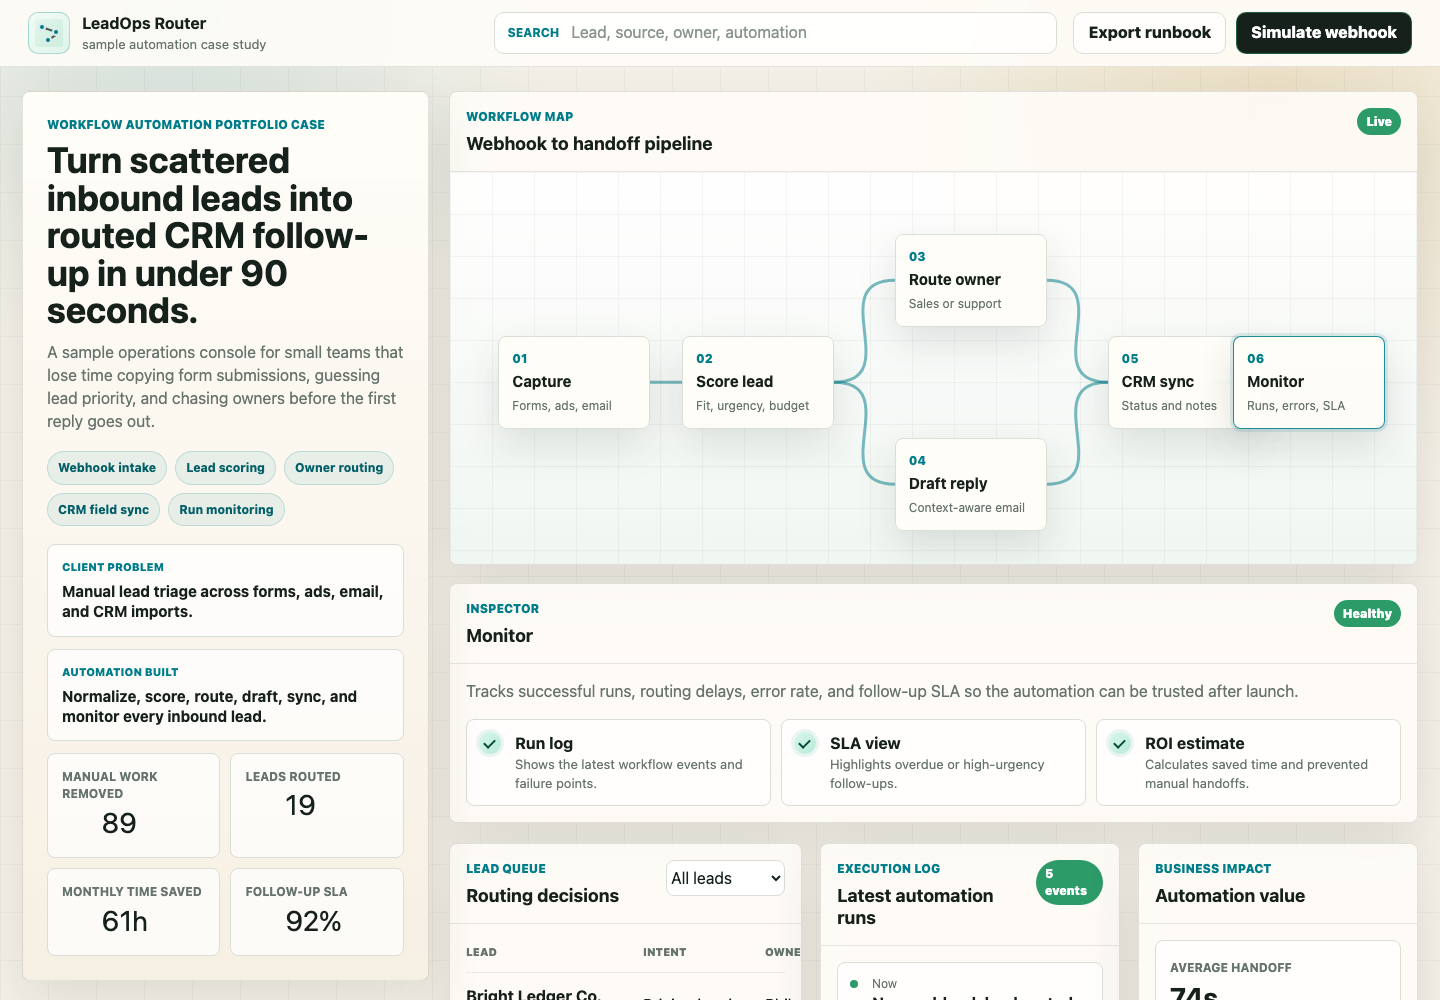
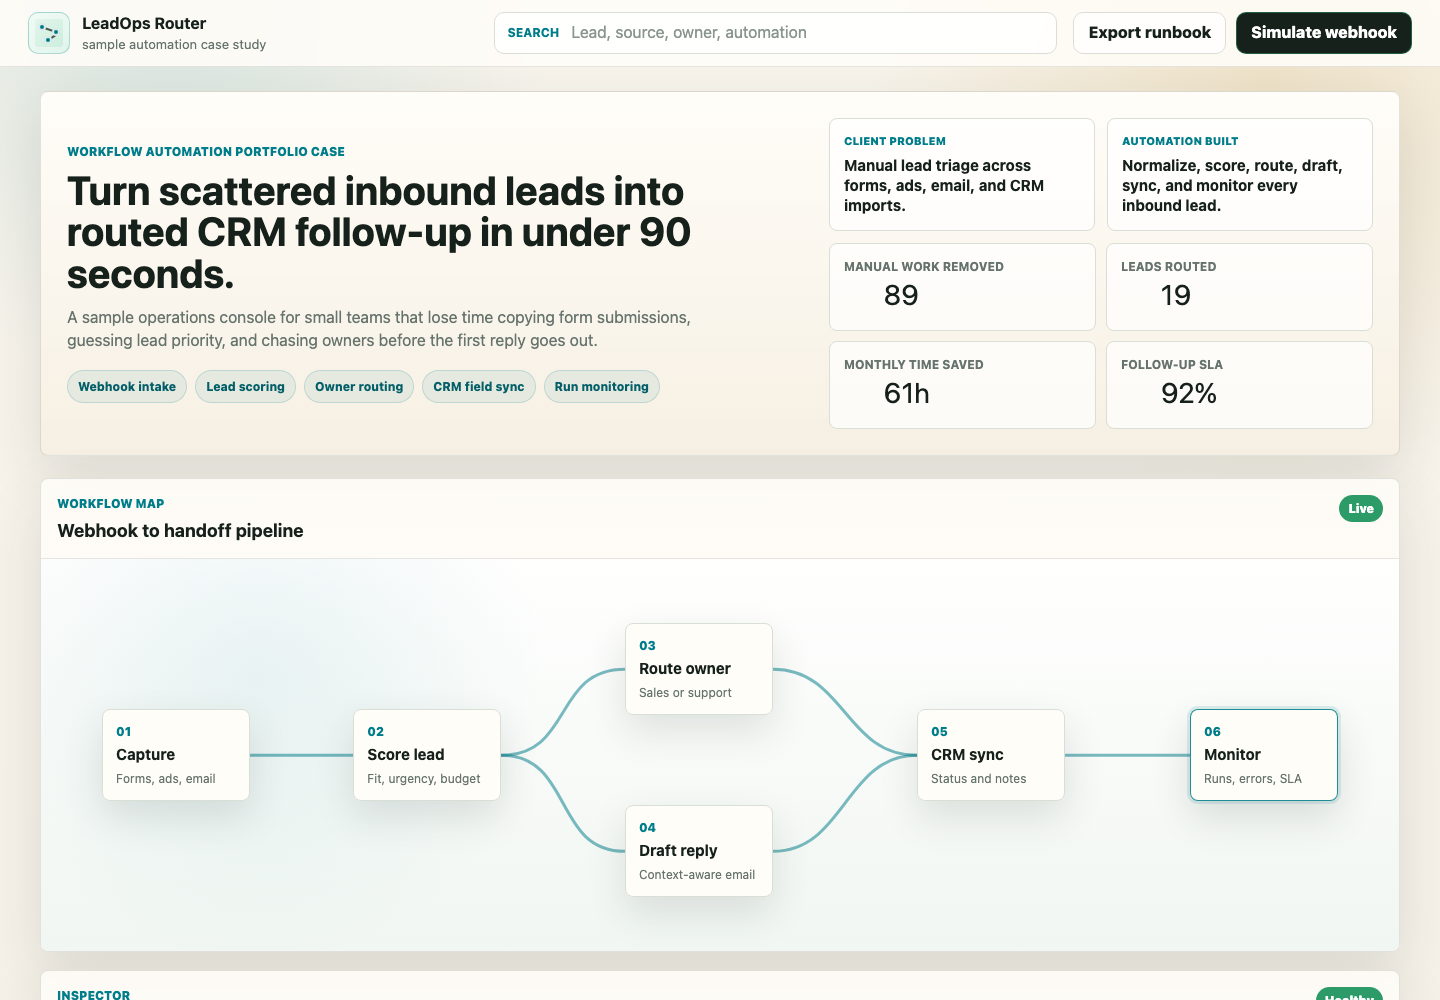
Restore breathing room in the automation portfolio layout
The browser review showed that the light redesign still behaved like a cramped two-column dashboard: the sticky mission rail narrowed the workflow canvas, and CRM/Monitor nodes could visually collide at narrower desktop widths. Direct Safari review then exposed bottom-section proof-card wrapping, proof-card edge mismatch, and operations-card edge mismatch defects that screenshot smoke tests had missed. This change makes the case brief a full-width top section, gives the workflow map its own wide row, removes the busy page grid, fixes proof-description grid placement, and stretches same-row operations and proof cards to matching heights.

Constraint: Upwork portfolio screenshots need to read clearly without relying on horizontal space hidden by a sticky side panel
Rejected: Keep the side rail and shrink node labels | it preserves the cramped structure that caused the visual failure
Rejected: Rely only on automated first-viewport screenshots | it missed bottom-section wrapping and same-row card edge defects
Confidence: high
Scope-risk: narrow
Directive: For future visual edits, verify desktop, narrow desktop, scrolled interaction, bottom content, every same-row card edge group, and mobile screenshots before claiming quality
[…]

diff --git a/styles.css b/styles.css
@@ -25,12 +25,10 @@ body {
   margin: 0;
   color: var(--ink);
   background:
-    linear-gradient(90deg, rgba(23, 33, 28, 0.035) 1px, transparent 1px),
-    linear-gradient(rgba(23, 33, 28, 0.035) 1px, transparent 1px),
     radial-gradient(circle at 12% 0%, rgba(0, 125, 138, 0.13), transparent 24rem),
     radial-gradient(circle at 88% 4%, rgba(194, 145, 38, 0.18), transparent 25rem),
-    var(--bg);
-  background-size: 48px 48px, 48px 48px, auto, auto, auto;
+    linear-gradient(180deg, #f8f4ec 0%, var(--bg) 46%, #eee6d8 100%);
+  background-size: auto;
   font-family: Inter, ui-sans-serif, system-ui, -apple-system, BlinkMacSystemFont, "Segoe UI", sans-serif;
   line-height: 1.45;
 }
@@ -197,14 +195,15 @@ button {
 
 .workspace {
   display: grid;
-  grid-template-columns: minmax(320px, 0.42fr) minmax(0, 1fr);
+  grid-template-columns: 1fr;
   grid-template-areas:
-    "mission console"
-    "mission ops"
-    "proof proof";
-  gap: 20px;
+    "mission"
+    "console"
+    "ops"
+    "proof";
+  gap: 22px;
   align-items: start;
-  width: min(1420px, calc(100% - 44px));
+  width: min(1360px, calc(100% - 48px));
   margin: 0 auto;
   padding: 24px 0 38px;
 }
@@ -220,14 +219,18 @@ button {
 .mission-panel {
   grid-area: mission;
   display: grid;
-  gap: 18px;
-  align-items: start;
-  padding: 24px;
+  grid-template-columns: minmax(0, 1.15fr) minmax(430px, 0.85fr);
+  gap: 26px;
+  align-items: stretch;
+  padding: 26px;
   background:
     linear-gradient(180deg, rgba(255, 253, 248, 0.94), rgba(246, 239, 226, 0.96)),
     var(--paper);
-  position: sticky;
-  top: 84px;
+}
+
+.mission-story {
+  align-self: center;
+  max-width: 760px;
 }
 
 .kicker {
@@ -248,9 +251,9 @@ dd {
 }
 
 h1 {
-  max-width: 620px;
+  max-width: 760px;
   margin-bottom: 12px;
-  font-size: 36px;
+  font-size: 40px;
   line-height: 1.04;
   letter-spacing: 0;
 }
@@ -263,7 +266,7 @@ h2 {
 }
 
 .mission-copy {
-  max-width: 540px;
+  max-width: 680px;
   margin-bottom: 0;
   color: var(--muted);
   font-size: 16px;
@@ -288,7 +291,13 @@ h2 {
 
 .case-brief {
   display: grid;
+  grid-template-columns: repeat(2, minmax(0, 1fr));
   gap: 12px;
+  align-content: start;
+}
+
+.case-brief .mission-stats {
+  grid-column: 1 / -1;
 }
 
 .brief-row {
@@ -414,10 +423,9 @@ h2 {
   position: relative;
   min-height: 392px;
   background:
-    linear-gradient(90deg, rgba(23, 33, 28, 0.045) 1px, transparent 1px),
-    linear-gradient(rgba(23, 33, 28, 0.045) 1px, transparent 1px),
-    linear-gradient(180deg, rgba(255, 255, 255, 0.84), rgba(238, 246, 241, 0.86));
-  background-size: 42px 42px, 42px 42px, auto;
+    radial-gradient(circle at 16% 30%, rgba(0, 125, 138, 0.08), transparent 18rem),
+    linear-gradient(180deg, rgba(255, 255, 255, 0.9), rgba(240, 246, 242, 0.94));
+  background-size: auto;
 }
 
 .flow-lines {
@@ -440,7 +448,7 @@ h2 {
   position: absolute;
   display: grid;
   gap: 4px;
-  width: 152px;
+  width: 148px;
   border: 1px solid var(--line);
   border-radius: 8px;
   padding: 13px;
@@ -473,33 +481,33 @@ h2 {
 }
 
 .source {
-  left: 5%;
-  top: 164px;
+  left: 4.5%;
+  top: 150px;
 }
 
 .classify {
-  left: 24%;
-  top: 164px;
+  left: 23%;
+  top: 150px;
 }
 
 .route {
-  left: 46%;
-  top: 62px;
+  left: 43%;
+  top: 64px;
 }
 
 .draft {
-  left: 46%;
-  top: 266px;
+  left: 43%;
+  top: 246px;
 }
 
 .crm {
-  left: 68%;
-  top: 164px;
+  left: 64.5%;
+  top: 150px;
 }
 
 .monitor {
-  left: calc(100% - 184px);
-  top: 164px;
+  right: 4.5%;
+  top: 150px;
 }
 
 .inspector-surface {
@@ -564,9 +572,13 @@ h2 {
 .operations-grid {
   grid-area: ops;
   display: grid;
-  grid-template-columns: minmax(0, 1.18fr) minmax(300px, 0.54fr) minmax(280px, 0.48fr);
+  grid-template-columns: minmax(420px, 1.14fr) minmax(300px, 0.72fr) minmax(270px, 0.62fr);
   gap: 18px;
-  align-items: start;
+  align-items: stretch;
+}
+
+.operations-grid > .surface {
+  height: 100%;
 }
 
 select {
@@ -685,9 +697,12 @@ select {
   display: grid;
   grid-template-columns: minmax(0, 1fr) minmax(0, 1fr);
   gap: 18px;
+  align-items: stretch;
 }
 
 .proof-card {
+  display: grid;
+  align-content: start;
   padding: 18px;
 }
 
@@ -705,7 +720,7 @@ select {
 
 .proof-list li {
   display: grid;
-  grid-template-columns: 34px 1fr;
+  grid-template-columns: 34px minmax(0, 1fr);
   gap: 12px;
   border: 1px solid var(--line);
   border-radius: 8px;
@@ -715,6 +730,7 @@ select {
 
 .proof-list span {
   display: grid;
+  grid-row: 1 / span 2;
   width: 28px;
   height: 28px;
   place-items: center;
@@ -727,6 +743,7 @@ select {
 .proof-list strong,
 .proof-list em {
   display: block;
+  grid-column: 2;
 }
 
 .proof-list em {
@@ -740,6 +757,16 @@ select {
   display: grid;
   grid-template-columns: repeat(2, minmax(0, 1fr));
   gap: 12px;
+}
+
+@media (max-width: 1280px) {
+  .operations-grid {
+    grid-template-columns: minmax(0, 1fr) minmax(300px, 0.78fr);
+  }
+
+  .roi-surface {
+    grid-column: 1 / -1;
+  }
 }
 
 @media (max-width: 1120px) {
@@ -760,7 +787,7 @@ select {
   }
 
   .mission-panel {
-    position: static;
+    grid-template-columns: 1fr;
   }
 
   .command-actions {
@@ -820,6 +847,7 @@ select {
     padding: 18px;
   }
 
+  .case-brief,
   .mission-stats,
   .delivery-grid {
     grid-template-columns: 1fr;
